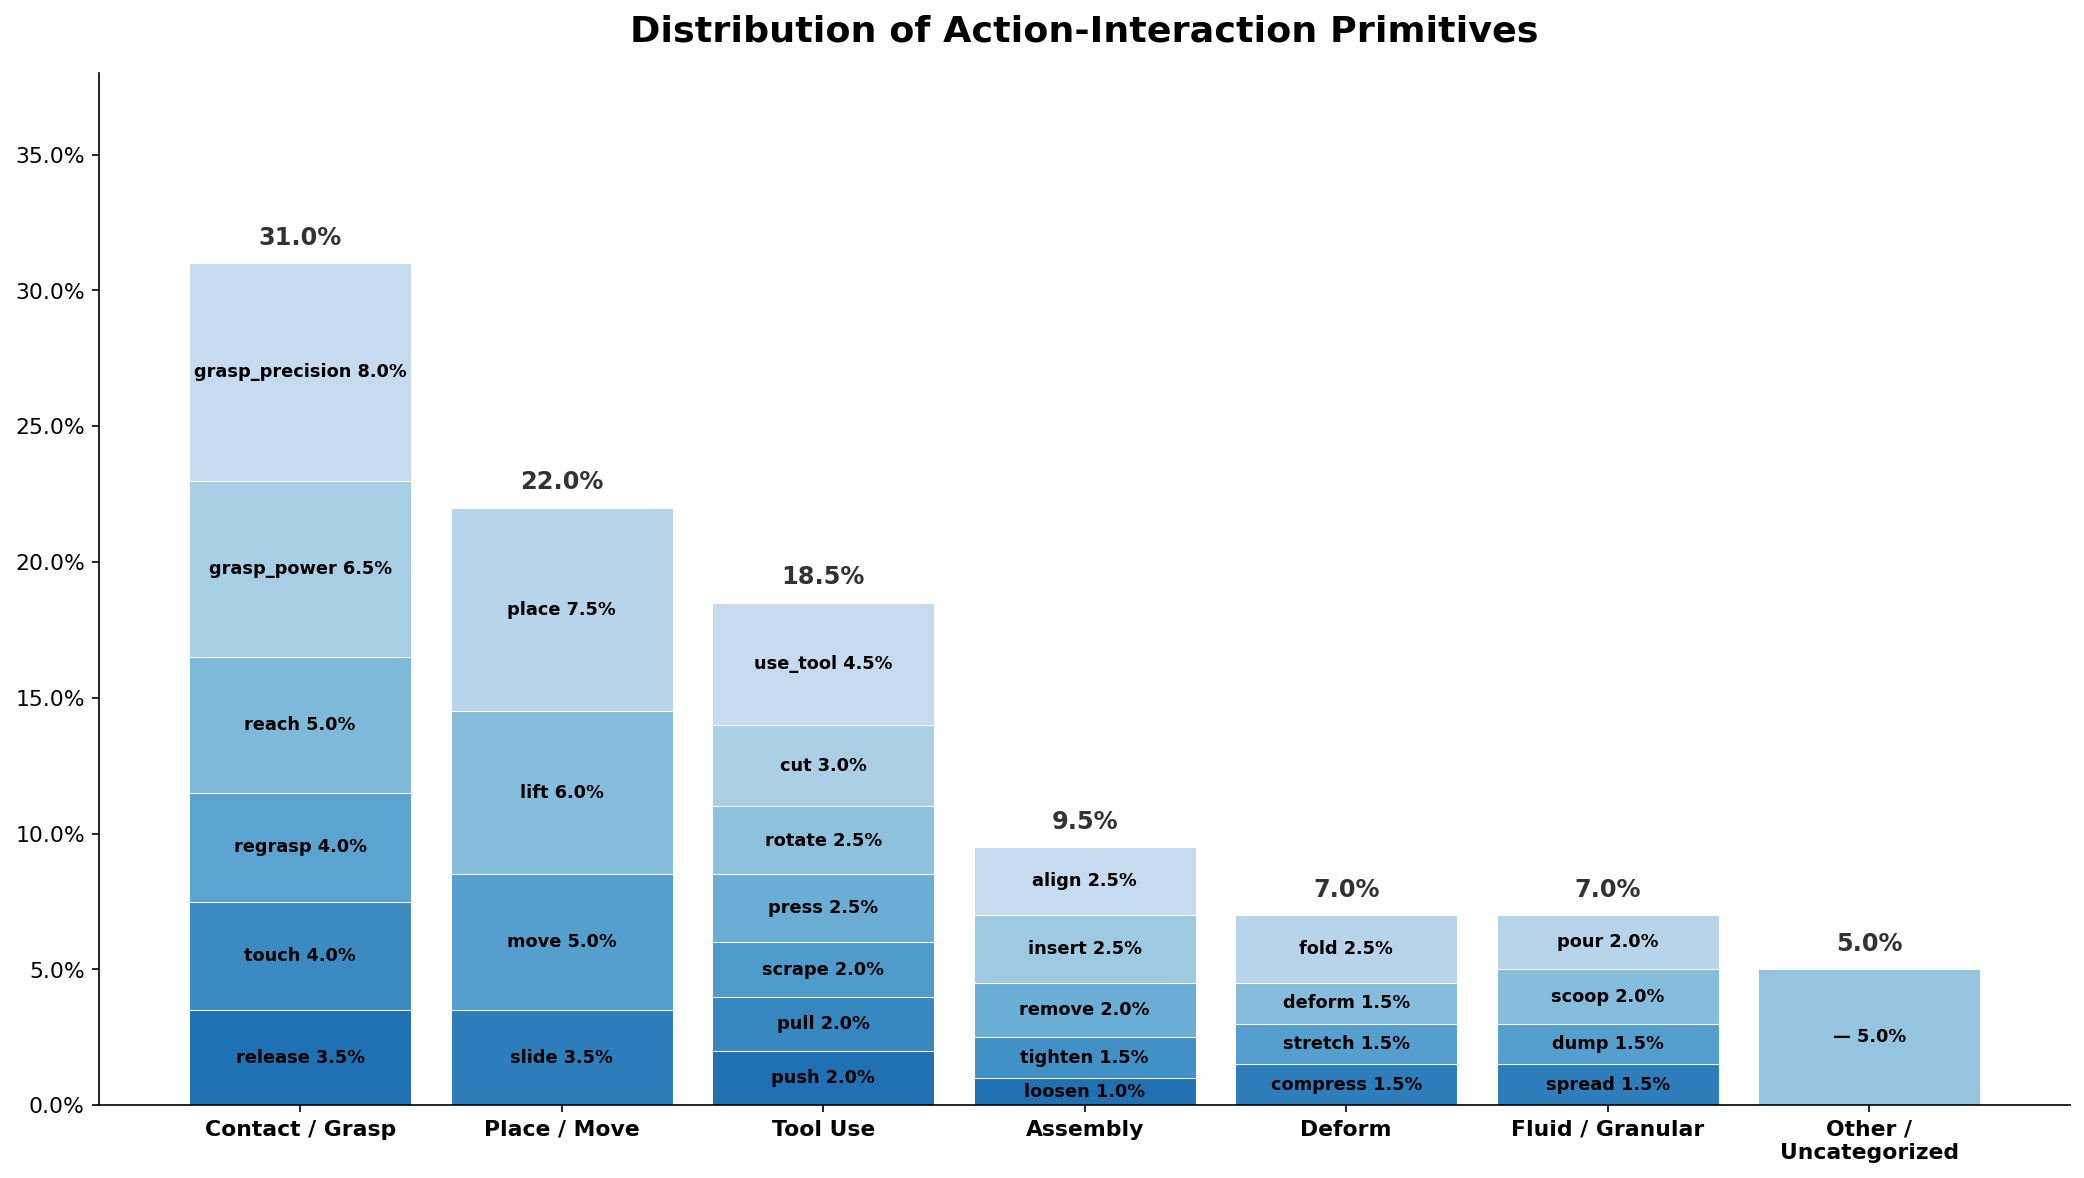
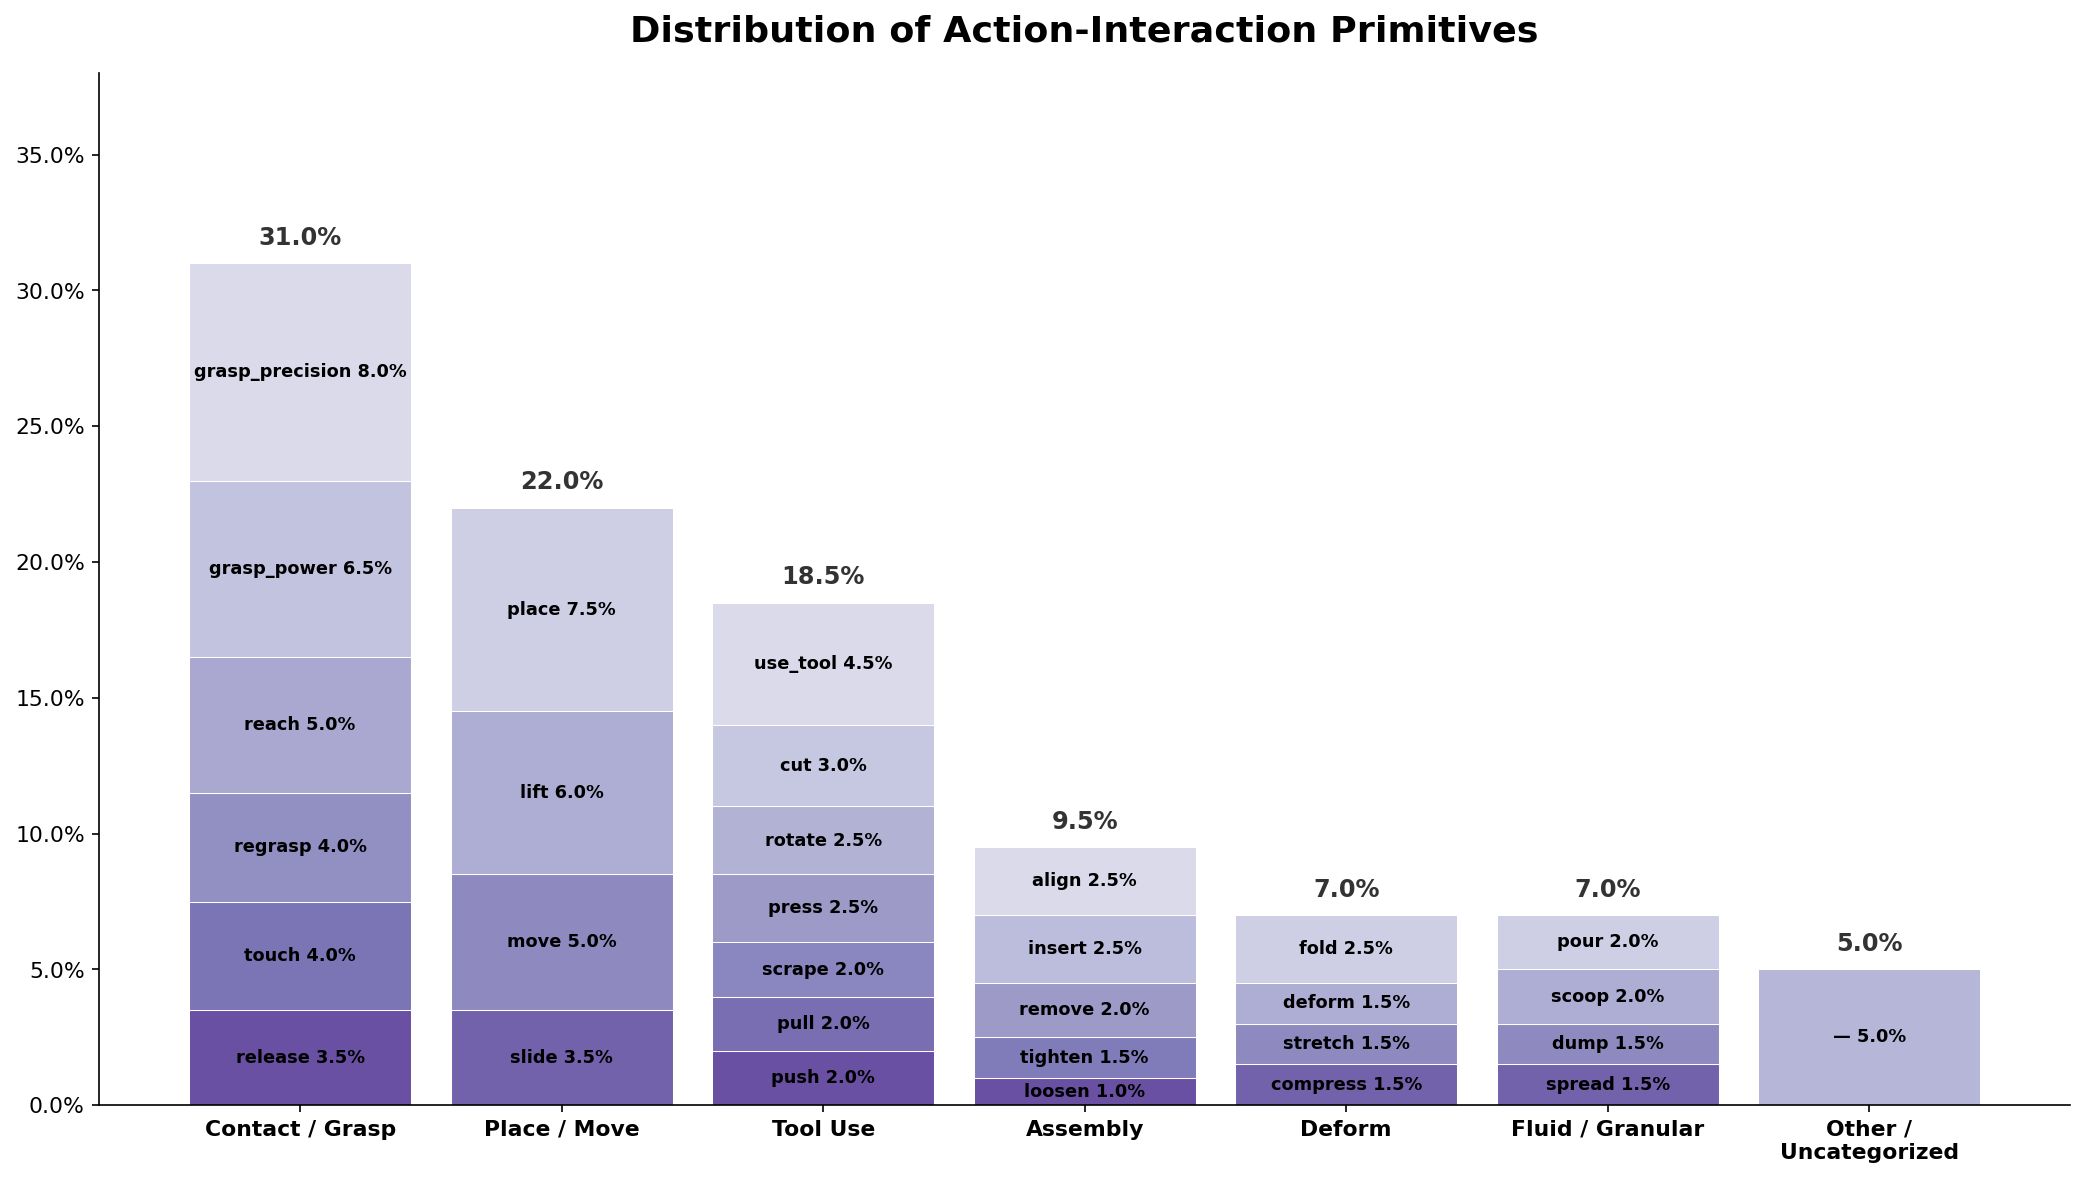
Switch action primitives histogram to purple color scheme

Changed region(s): [[0.0936, 0.3973, 0.9669, 0.9474]]

diff --git a/action_primitives_histogram.py b/action_primitives_histogram.py
@@ -62,7 +62,7 @@ blue_ranges = {
     "Other /\nUncategorized": (0.40, 0.65),
 }
 color_palettes = {
-    cat: plt.cm.Blues(np.linspace(lo, hi, len(data[cat])))
+    cat: plt.cm.Purples(np.linspace(lo, hi, len(data[cat])))
     for cat, (lo, hi) in blue_ranges.items()
 }
 
